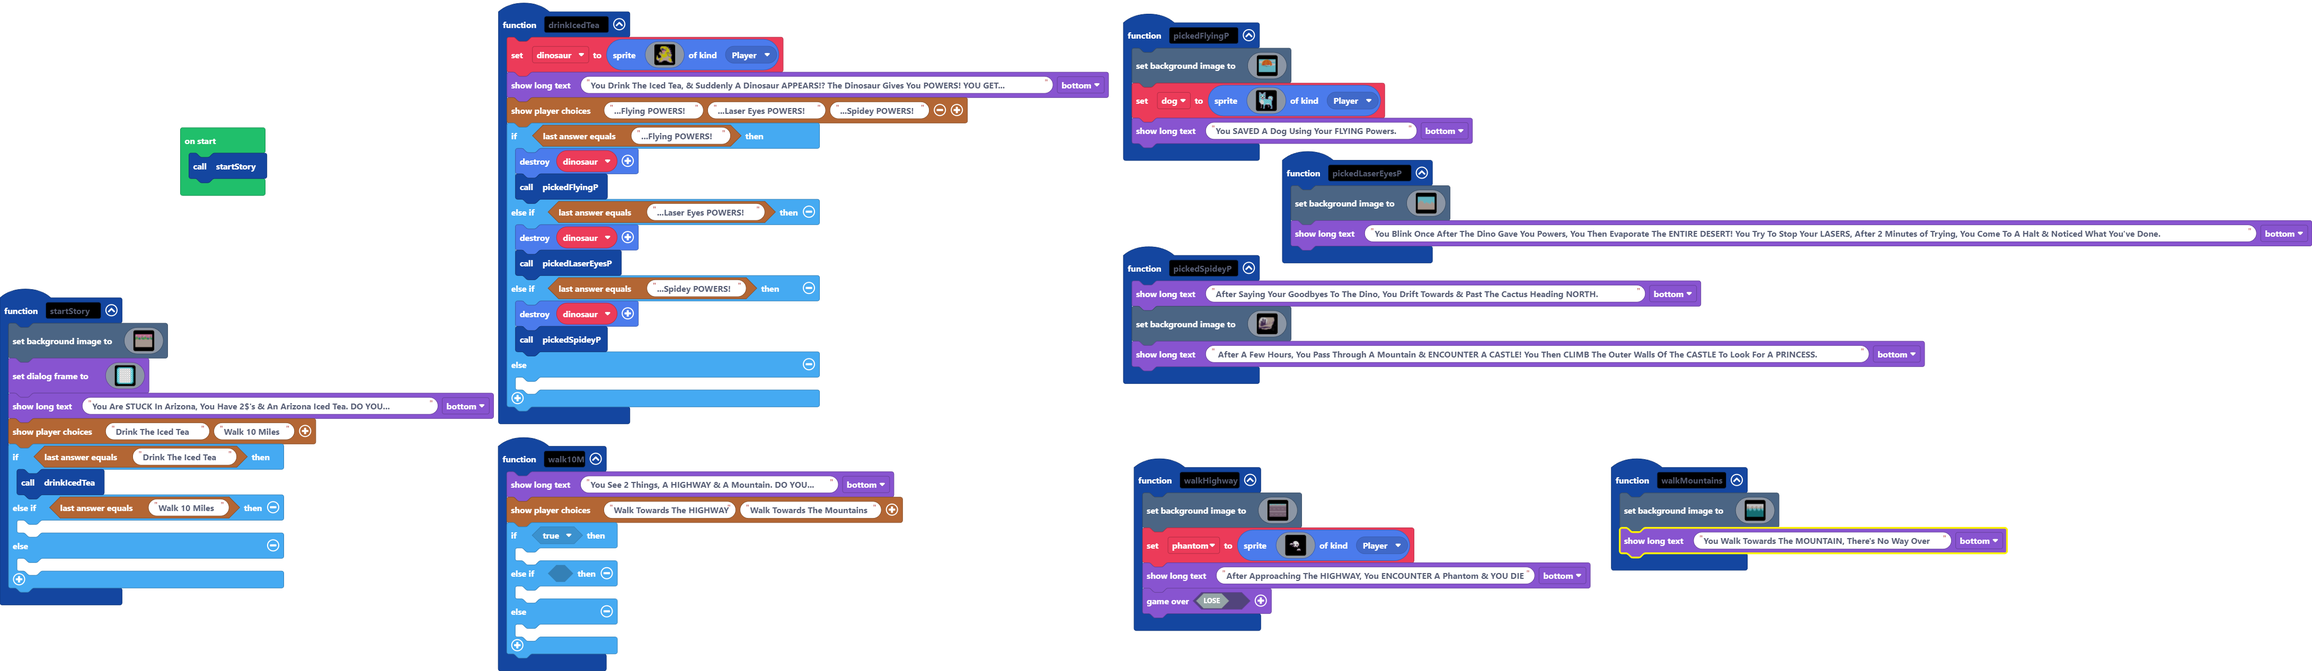
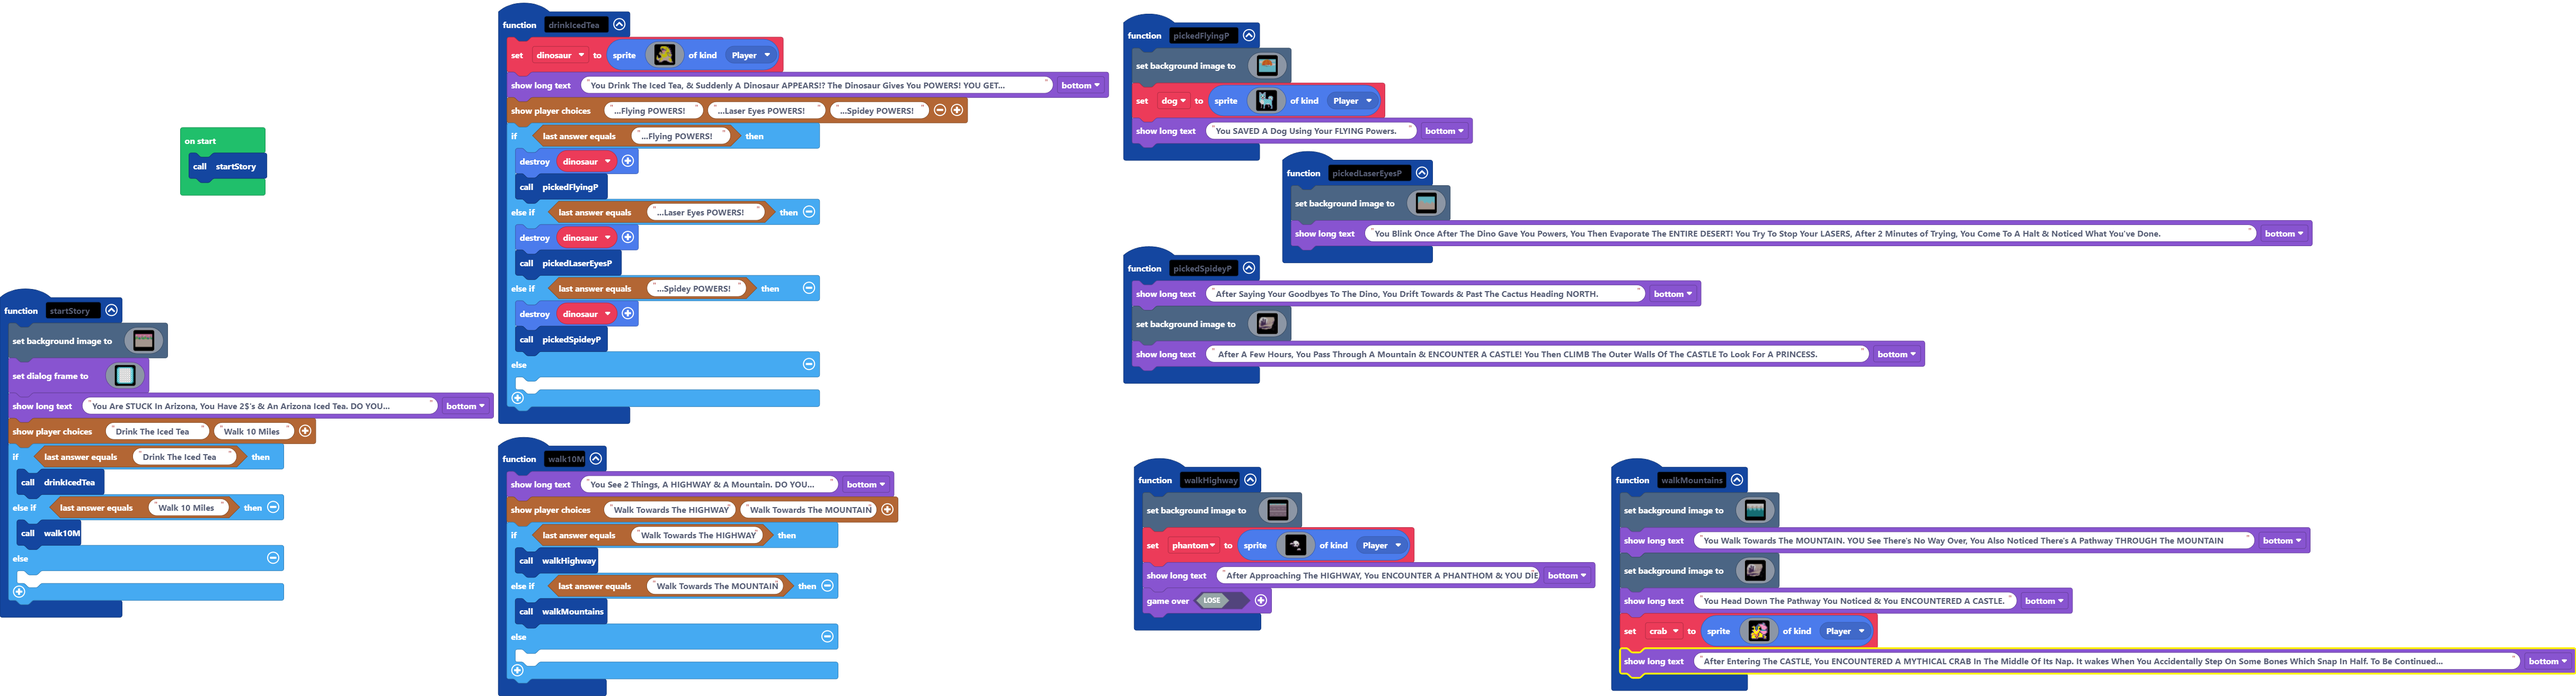
For Now

diff --git a/main.ts b/main.ts
@@ -1,10 +1,10 @@
 function walk10M () {
     game.showLongText("You See 2 Things, A HIGHWAY & A Mountain. DO YOU...", DialogLayout.Bottom)
-    story.showPlayerChoices("Walk Towards The HIGHWAY", "Walk Towards The Mountains")
-    if (true) {
-    	
-    } else if (false) {
-    	
+    story.showPlayerChoices("Walk Towards The HIGHWAY", "Walk Towards The MOUNTAIN")
+    if (story.checkLastAnswer("Walk Towards The HIGHWAY")) {
+        walkHighway()
+    } else if (story.checkLastAnswer("Walk Towards The MOUNTAIN")) {
+        walkMountains()
     } else {
     	
     }
@@ -158,7 +158,7 @@ function walkHighway () {
         ........................
         ........................
         `, SpriteKind.Player)
-    game.showLongText("After Approaching The HIGHWAY, You ENCOUNTER A Phantom & YOU DIE", DialogLayout.Bottom)
+    game.showLongText("After Approaching The HIGHWAY, You ENCOUNTER A PHANTHOM & YOU DIE", DialogLayout.Bottom)
     game.over(false)
 }
 function drinkIcedTea () {
@@ -827,7 +827,7 @@ function startStory () {
     if (story.checkLastAnswer("Drink The Iced Tea")) {
         drinkIcedTea()
     } else if (story.checkLastAnswer("Walk 10 Miles")) {
-    	
+        walk10M()
     } else {
     	
     }
@@ -955,8 +955,151 @@ function walkMountains () {
         6666666666666666666666666666666666666666666666666666666666666666666666666666666666666666666666666666666666666666666666666666666666666666666666666666666666666666
         6666666666666666666666666666666666666666666666666666666666666666666666666666666666666666666666666666666666666666666666666666666666666666666666666666666666666666
         `)
-    game.showLongText("You Walk Towards The MOUNTAIN, There's No Way Over ", DialogLayout.Bottom)
+    game.showLongText("You Walk Towards The MOUNTAIN. YOU See There's No Way Over, You Also Noticed There's A Pathway THROUGH The MOUNTAIN ", DialogLayout.Bottom)
+    scene.setBackgroundImage(img`
[63 lines of base64/hex data omitted]
+        dbbbbbbbbbbbbbbbbbbbbbbcccccccccccccccccccccccccccccccccccccccccccbbbbbbbbbbbbbbbbbbbbbbbbbbbbbbbbbbbbbbbdddddddddddddbdddddddddddddbcffffffffffffffffffffffffff
+        bbbbbbbbbbbbbbbbbbbbbbccccccccccccccccccccccccccccccccccccccccccccbbbbbbbbbbbbbbbbbbbbbbbbbbbbdbbbdbddddbdddddddddddddddddddddddddddccffffffffffffffffffffffffff
+        bbbbbbbbddbbbbbbbbbbbbcccccccccccccccccccccccccccccccccccccccccccccbbbbbbbbbbbbbbbbbbbbbbbbddddddddddbddddddddddddddddddddddbdddddbbbffbdfffffffffffffffffffffff
+        bbbbbbbdddddbbbbbbbbbbcccccccccccccccccccccccccccccccccccccccccccccbbbbbbbbbbbbbbbbbbbbbbddddbddddddddbdddddddddddddddddddddddddddbddfcbfdffffffffffffffffffffff
+        bbbbddddddddddddddbbbbcccccccccccccccccccccccccccccccccccccccccccccccbbbbbbbbbbbbdddddddddddddddddddddddddddddddddddddddddddddddddbdffdffbcfffffffffffffffffffff
+        bbbddddddddddddbbbbbbbcccccccccccccccccccccccccccccccccccccccccccccccccbbbdbbdbdddddddbddddbddddddddddddddddddddddddddddddddddddddcffcdfffffffffffffffffcfffffff
+        bbdddddddddddddbbbbbbbcccccccccccccccccccccccccccccccccccccccccccccbcccbbbbbddbdddddddddddddddddddddddddddddddddddddddddddddddddbcdffdfcdfffffffffffffffffffffff
+        bddddddddddddddbdbbbbccccccccccccccccccccccccccccccccccccccccccbcbbbcbddddddddddddbddddddddddddddddddddddddddddddddddbddddddddddbfcffffcffffffffffffffffffffffff
+        ddddddddddddddddbdbbbcccccccccccccccccccccccccccccccccccccccccbbcddddcdbddddbbddddbbdddddddddddbdddddddddddddddddddbddddddddddddcbdffffffffffbfffffcffffffffcbff
+        dbdbddddddddbdbdbbbbccccccccccccccccccccccccccccccccccbcccbcbbdbcddddddddddddddddddddddddbddddddddddddddddddddddddddddddddddddddcffffffffffffffffffffffffcfffddf
+        ddddddbddddddddbbbbbcccccccccccccccccccccccccccccccbbcbccbbbbdbdddddddddddbbbddddddddddddddddddddddddddddddddddddddddddddddddddbffffffffffffffffffffffffcdfffcff
+        ddddddddddddbdbbbbbbccccccccccccccccccccccccccccccbbbbbbdddddddbddddddddddddbddddddddddddddddddddddddddddddddddddddddddddddddddcfffffffffffffffffffffffffffdffff
+        dddddddddddddbbbbbbcccccccccccccccccccccccccccccbbbcddddbdbcdddcddddddddddddddddbdddbddddddddddbdddddddddddddddddddddddddddddddccfffffffffffffffffffffffffffffff
+        ddddddddddddbbbbbbbcccccccccccccccccccccccccccbbddddddddbdbddddbdddddddddddddddddddddddddbbbddddddddddddddddddddddddddddddddddcfcffffffffffffffffcffffffffffffff
+        bdbddddddbddbbbbbbccccccccccccccccccccccccccbddddbbdddddddddddddddddddbddddddddddddddddddddddddddddbdbdddddddddddddddddddddddbffffffffcffffffffffffffffcfcffffff
+        dbddbdddddddbbbbcccccccccccccccccccccccccccdbdbdddddddddddddddddddddddbddddddddbdcbddddddddddddddddddddddddddddddddddddddddddcfffffffffffffffffffffffffffcffffff
+        dddddddddddddddddbcbcccccccccccccccccccccbddcbbcdddbddddddddddddcdbddddddddddddddddddddbdddddddddddddddddddddddddddddddddddddfffbffffffffffffffffffffffffffcffff
+        ddddddddddddcddddddbbccccccccccccccccbcbcbddddddbdbcddddddddddddddddddddddddddcbddddddddddddbdddddddddddddddddddddddddddddddcfffdfffffffffffffffffffffffffffffff
+        dddddddddddbcdddddbddcbbcccccccbcccbbbbbccddbddddbdbdddddddddddddddddddddddddddddddddddddddddddddddddddddddbbddddddddddddddbffffcfffffffffffffffffffffffffffffff
+        bdddddddddcdddddddddbcbbbcbbbcbbbdddbddddbddddddddddddddddbddddddddddddddddbcdddcddddddddddddddddddddddddddccddddddddddddddbddfffffffffffcffffffffffffffffcccfff
+        ddddddddddddbddddbdddbbdbcbddbdbddddddddddbdddddddbdddddcddddddddddddbddddddddddddddddbddddddddbdddddddddddddddddddddddddddcdfffffffffffffffffffffffffffffccfffc
+        dddcdddddddddddddddddcdddddddbdbbbdddbddddddddddddccdddddbddddddddcddddddddcddddddddddddddddddddddddddddddddddddddddcddddddcffffffffffffffffffffffffffffffffffff
+        dddbdddddddddddddddddcdddddddcbddddbbddddddcdbddbdddddddddddbcbbbdcbddddddcbddddddddddddddddddddddddddddbddddddddddddddddddcfffffffffffffffcffffffffffffffffffff
+        bdddddddddddddddddddddddddddbddbdbcbdbbddddbdddddddddddddbbbbbbcbbbbcdbbddddbddbcddddddddddddddddbdddddddddddddddddddddddddcffffbdcffffffffcffffffffffcfffffffff
+        dddddddddddddddddddddddddddbbdddddbcdddddddbddddcdbbdbbbbcccbbccccbcbcbbbbbbbbccbcbbbdbbbbddddddddddddddddddddddddddbbbbdddcffffcfbfffffffffffffffffffffffffffff
+        dddddddddddddddddddbdddddcbbddddddbbdddddddbbddddbbbbbccccccccccccccccccccccccccccbccbcbbccbdbbdddddddddddddddddddbbbbbbddbccfddfffffffffffbbfffffffffffffffffff
+        bbbdddddddbddddddddddddbddcddbdddddbbddbccbcccbbcbbbcbccccccccccccccccccccccccccbcccccccccccccbbbdddddddddddddbbbbccccbbddccfffffcffffffffffffffffffffffffffffff
+        cccbddddddddddddddddddddddbdddddbbbcbcccccbcccccccccccccccccccccccccccccccccccccccccccccccccccbccccbdbdddbdbbbcccbccbbbdddbfffffdfffffffffffffffffffffffffffffff
+        ccccddbdddddddddddcddddccbbbccbbcbbccccccbcccccccccccccccccccccccccccccccccccccccccccccccccccccccccccccccccccccccbcccbdddddfffffffffffffffcfffffffffffffffffffff
+        ccbbbbbddddddddddbcdddcccccccccbccccccccccccccccccccccccccccccccccccccccccccccccccccccccccccccccbcccccccccccccccccbbddddddbfffffffffffffffffffffffffffffffffffff
+        ccccccbcbbbdddddbcccbccccccccccccccccccccccccccccccccccccccccccccccccccccccccccccccccccccccccccccccccccccccccccccbddddddddbfffffffffffffffffffffffffffffffffffff
+        cccccccbccbbbcbccccccccccccccccccccccccccccccccccccccccccccccccccccccccccccccccccccccccccccccccccccccccccccccbcbdddddddddbcffffffffffffffffcbfffffffffffffffffff
+        cccccccccccbcbcccccccccccccccccccccccccccccccccccccccccccccccccccccccccccccccccccccccccccccccbccccccccccccccccbbdddddbdddbcfffffffffffffffffffffffffffffffffffff
+        ccccccccccccccccccccccccccccccccccccccccccccccccccccccccccccccccccccccccccccccccccccccccccbcbbcccccccccccccbbbbddddddddddbcffcffffffffffffffffffffffffffffffffff
+        ccccccccccccccccccccccccccccccccccccccccccccccccccccccccccccccccccccccccccccccccccccccbcccbbcccccbbcccccccbbbbdddddddddddbccffffffffffffffffffffffffffffffffffff
+        cccccccccccccccccccccccccccccccccccccccccccccccccccccccccccccccccccccccccccccccccccbcbddddddbbcbbbdbccccbbdddddbdddddddddcffdffdffffffffffffffffffffffffffffffff
+        cccccccccccccccccccccccccccccccbbccccccccccccccccccccccccccccccccccccccccbcccbbbbbbddddddddddddddbbbbbbdddddcdddddddddddbcfffffffffffffffffffffffffffffffffffffc
+        cccccccccccccccccccccccccccccbbddcbccccbccccccccccccccccccccccccccccccbdbbbbddddbdddddbddddddddddddddddddddddccdddddddddcfffffffffffffffffffffffffffffffffffffff
+        cccccccccccccccccccccccccccbbbcddbbcbbbbbccbbcccccccccccccccccccccbbbddddbbdddddbdccddbdddddddddddddddddddddddddddddddbcffffffffffffffffffffcfffffffffffffffffff
+        ccccccccccccccccccccccccccbddddddbbbbddbbbbdbccccccccccccccccccbcddddddddddbddcbdccbddddddddddddddddddddddddddddddddcbfdffffffffffffffffffffffffffffffffffffffff
+        cccccccccccccccbccccccccbcdddddddddbddddddbbbddbbbbccccccccccccdbdddddddddddbddddddddddddddddddddddddddddddddddddddcfcfffffffffffffffffcbffffffffffffffcffffffff
+        cccccccccccccccccccccfccccbddddddddddddddbcbcdddddbbbcccccbbbcdddddddbdddddddddddddddddddddddddddddddddddddddddddcdffbffffffffffffffffffbffffffffffffcbcffffffff
+        ccccccccccccccccccfccffffccbdddddddddddddddbdbddddddcdbcbdddddddddddddddddddddddddddddddddddddddddddddddddddddddbcfffdffcfffffbfffffffffdccfffffffffffffffffffff
+        cccccccccccccccffcffcccffffccdddddddddddddcccdddddbdbddbdddddddddddddddddddddddddddddddddddddddddddddddddddddddbcffffffddfffffffffffffffddffffffffffffffffffffff
+        cccccccfccffffcffffffcdfffffcfddddddddddddbccbddddbddddddddddddddddddddddddddddddddddddddddddddddddddddddddddbcfffffffffdfffffffffcffffffffffffffbffffffffffffff
+        ccfcccfffffffffffffffffffffcfccddddddddddbdcdddddddddddddddddddddddddddddddddddddddddddddbccbbccbcbbbdbbbdbfffdffffffffffffffffcfffffffffffffddfffffffffffffffff
+        cffcccffffffffffffffffffffffbcfcdddddddddccbdbdddddddddddddddddddddddddddddddddddddddbddfccccbfcfffffcbcfffcffcffffffffffccfffcffffffffffffffdbfffffffffffffffff
+        fcfffffffffffffffffffffffffffffbcbbdddddbcbcdbbbcbdbddddddddddddddddddddddddddddddbbccffffffffffffffffcbfffffffffffdffffcfffffffffffffffffffccffffffffffffffffff
+        fffffffffffffffffffffffffffffffcfffcdcfffcbcfcbccfccbddddddddddddddddddddddddddddbbbcfffffffffffffffffffcdbffffffffffffcdfdfffffffffffffffffffffffffffffffffffff
+        ffffffffffffffffffffffffffffffffffffcffffffdffdfcffffccddddddddddddddddddddddddbdccfffffffffffffffffffffcffffcffffffffffffffffffffffffffffffffffffffffffffffffff
+        ffffffffffffffffffffffffffffffdfffffbfbfffffbcfbffffffcccbcbcbdddddddddddddccccffffffffffffffffffffffffffffffffffffffffffcfffffffccfffffffffffffffffffffffffffff
+        ffffffffffffffffffffffffffffccffffffffffffffdfdcfffffddffcffccccffbdbbbdddcfdfffffffffffffffffffffffffffffffffffffffffffffffffffffffffbfffffffffffffffffffffffff
+        fffffffffffffffffffcffffffffffffffffffffffffffffffffddfcfbfffffffffffffffffcffffffffffffffffffffffffffffffffffffffffffffffffffffffffffffffffffffffffffffffffffff
+        ffffffffffffffffffffffffffffffffffffffffffffffcfffffdcfffddffffffffffffffffbffffcbffffffffffcffffffffffffffffffffffffffffffffffffffffffffffffffffffffffcffcfffff
+        ffffffffffffffffffffffdfffffffffcfffffffbffffffffffdffffffffffffffffffcfffffffffffffffffffffffffffffffffffffffffffffffffffffffffffbdffffffffffffffffffffffffffff
+        fffffffffffffffffffffffffffffffffffffffffffffffffffffffffffffffffffffffffffffffffffffffffffffffffffffffffffffffffffffffffffffbffffbffffdfffcddcfffffffffffffffff
+        fffffffffffffffffffffffffffffffffbffffffbffffffffffffffffffffffbfcffffcfffffffffffffffcffffffffffffffffffffffffffffffffffffffffffffffffffffdddffffffffffccffffff
+        `)
+    game.showLongText("You Head Down The Pathway You Noticed & You ENCOUNTERED A CASTLE.", DialogLayout.Bottom)
+    crab = sprites.create(img`
+        . . . . . . . . . . . c c . . . 
+        . . . . . . . c c c c 6 3 c . . 
+        . . . . . . c 6 3 3 3 3 6 c . . 
+        . . c c . c 6 c c 3 3 3 3 3 c . 
+        . b 5 5 c 6 c 5 5 c 3 3 3 3 3 c 
+        . f f 5 c 6 c 5 f f 3 3 3 3 3 c 
+        . f f 5 c 6 c 5 f f 6 3 3 3 c c 
+        . b 5 5 3 c 3 5 5 c 6 6 6 6 c c 
+        . . b 5 5 3 5 5 c 3 3 3 3 3 3 c 
+        . c c 5 5 5 5 4 c c 3 3 3 3 3 c 
+        c 5 5 4 5 5 4 c 5 5 c 3 3 3 c . 
+        b 5 4 b 4 4 4 c 5 5 5 b c c . . 
+        c 4 5 5 b 4 4 c 5 5 5 c b b . . 
+        c 5 5 5 c 4 c 5 5 5 5 c c 5 b . 
+        c 5 5 5 5 c 4 c c c c c c 5 c . 
+        . c c c c c c . . . . . c c c . 
+        `, SpriteKind.Player)
+    game.showLongText("After Entering The CASTLE, You ENCOUNTERED A MYTHICAL CRAB In The Middle Of Its Nap. It wakes When You Accidentally Step On Some Bones Which Snap In Half. To Be Continued...", DialogLayout.Bottom)
 }
+let crab: Sprite = null
 let dog: Sprite = null
 let dinosaur: Sprite = null
 let phantom: Sprite = null
